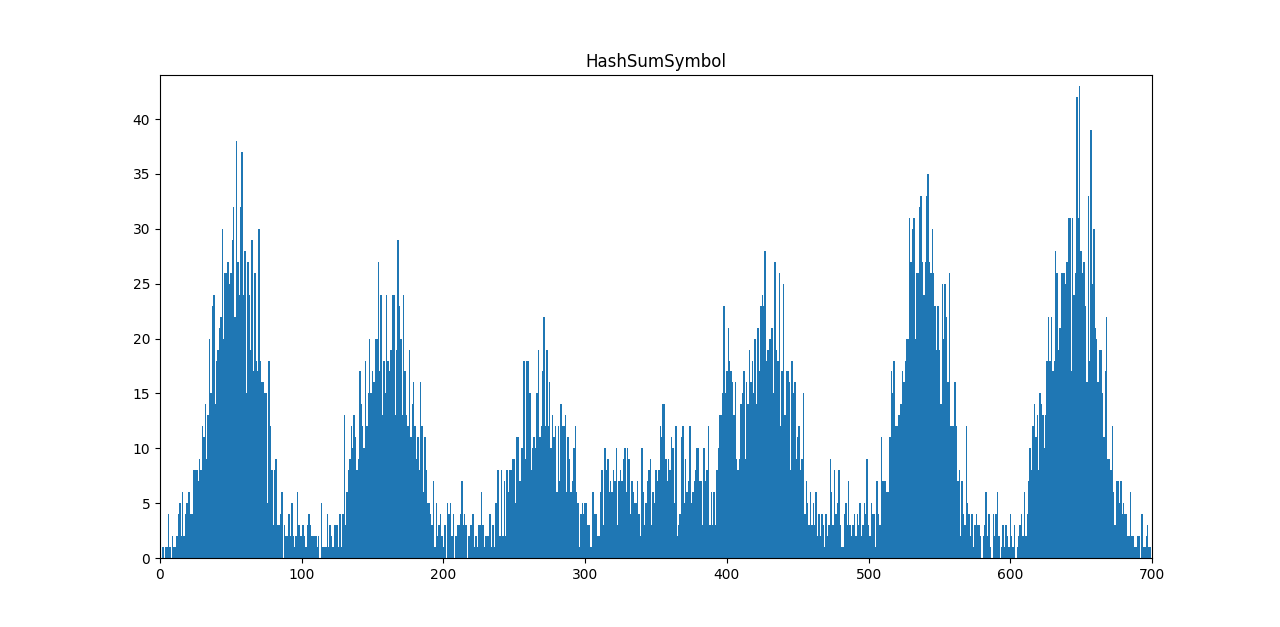
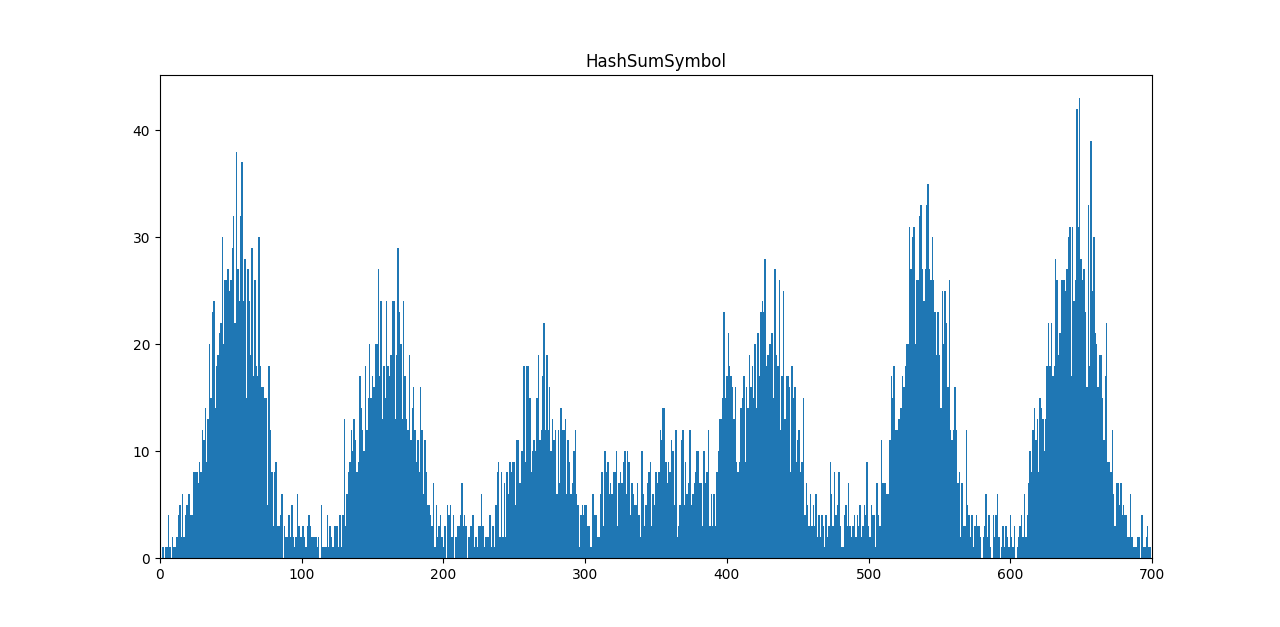
fixed hash functions and graphs to them

diff --git a/src/main.cpp b/src/main.cpp
@@ -59,10 +59,6 @@ MainErrorCode CheckHashFunction( const char *hashFunctionName, unsigned int (*ha
     return MAIN_NO_ERROR;
 }
 
-// #define test( num )        \
-//     printf( " " );         \
-//     printf( num"test\n" ); 
-
 int main()
 {
     // test( "1" )
